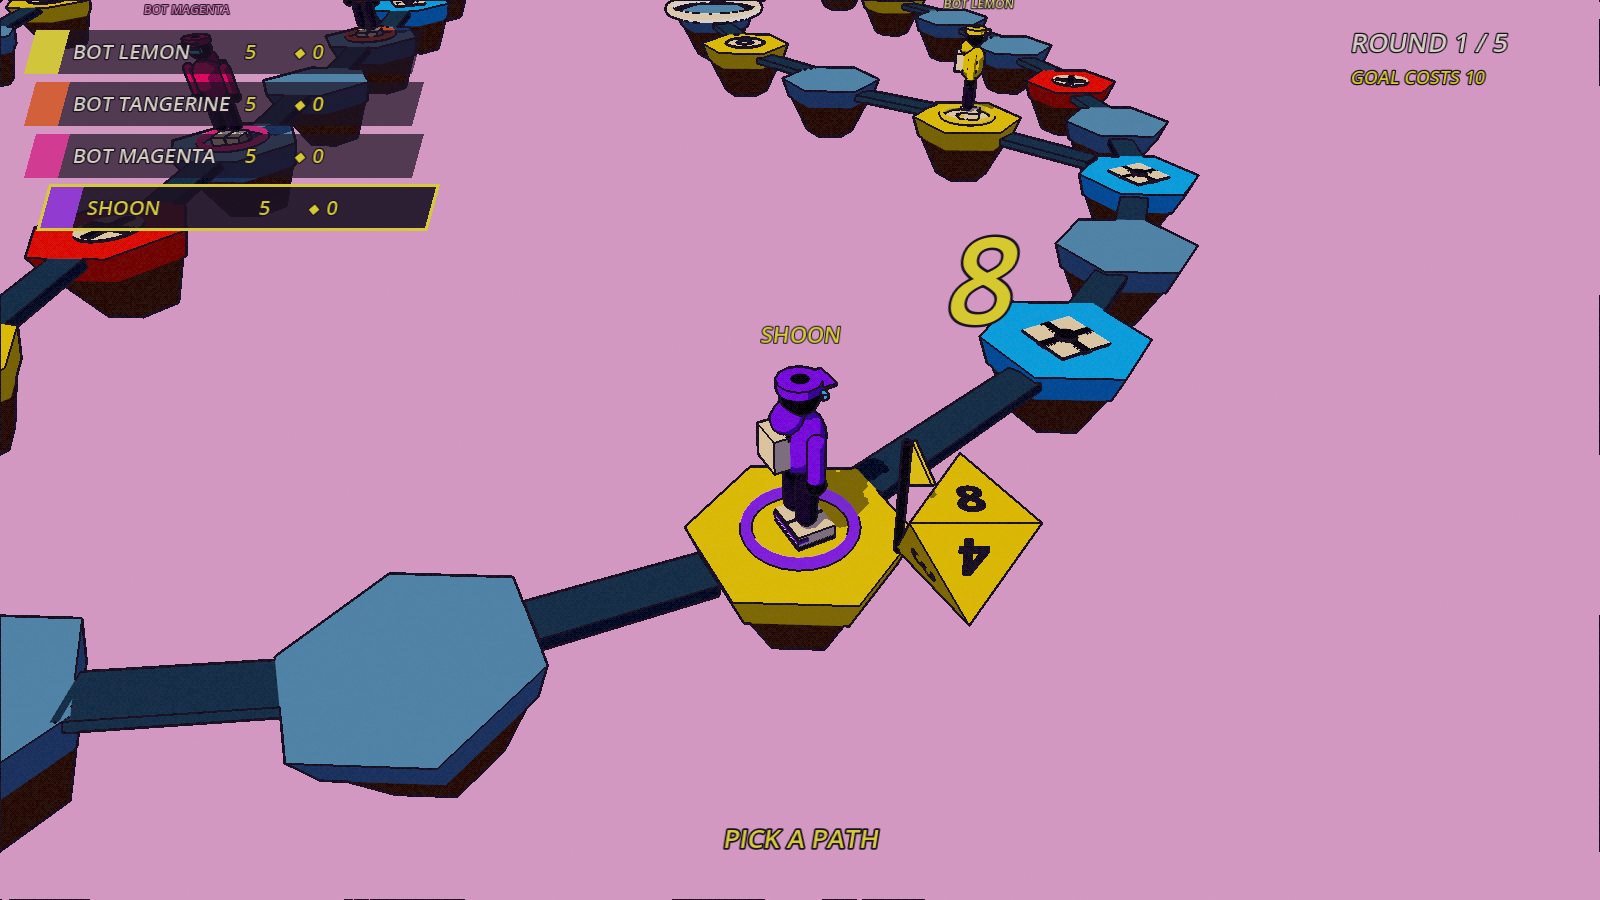
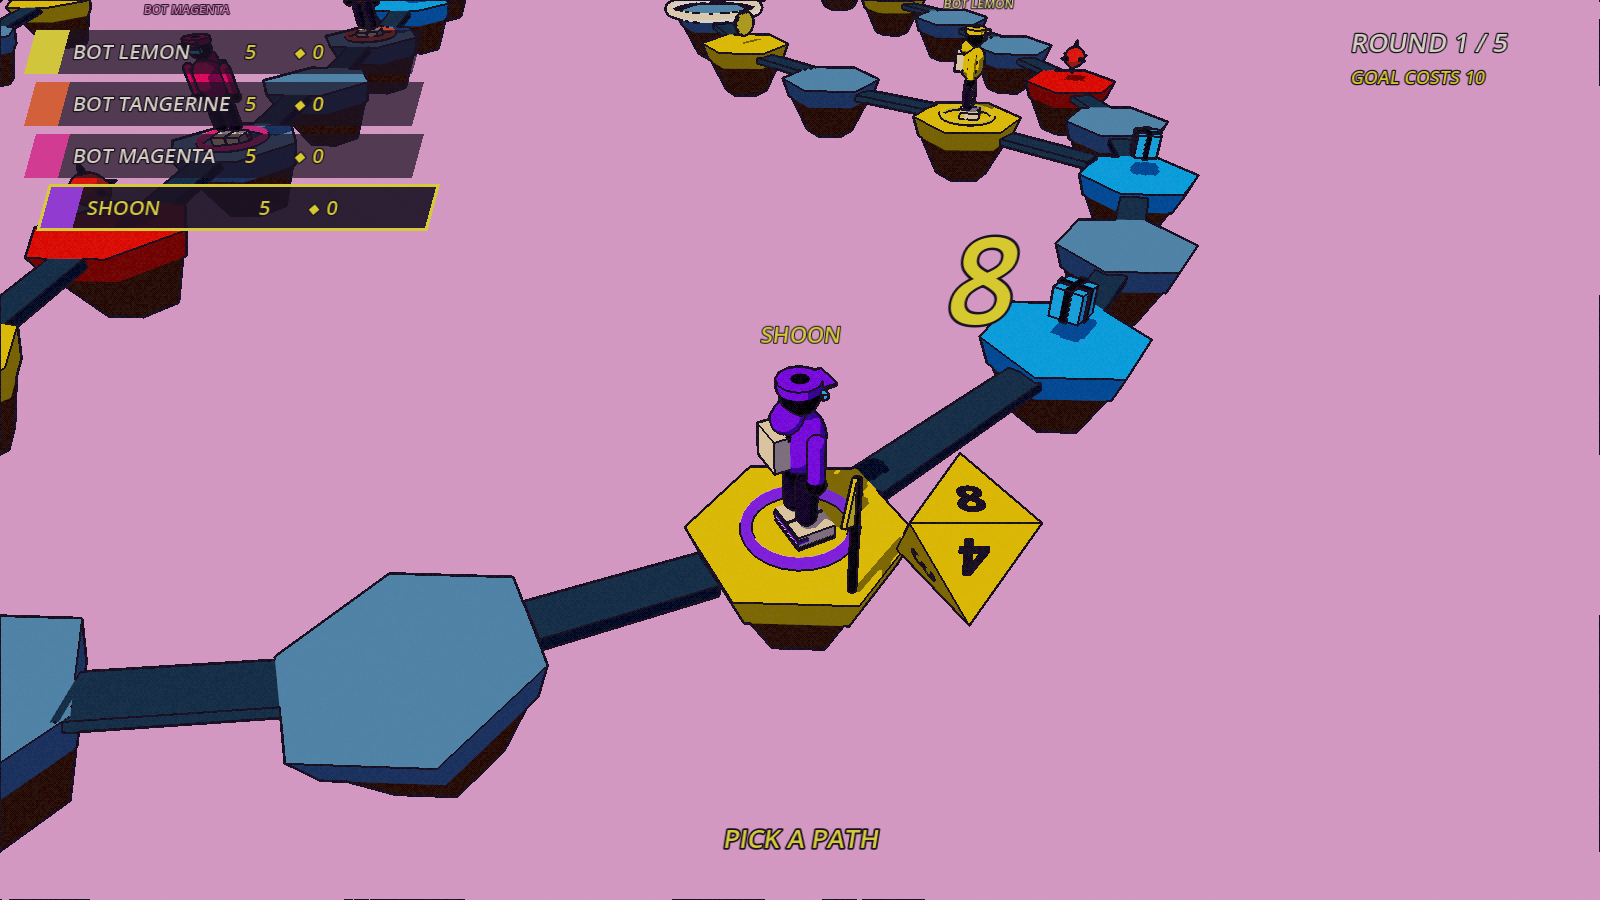
Floating board markers restored; bold dice numbers kept
Sean: the flat stamps look ugly on the spot. board_view.gd is back to the
spinning, bobbing markers from the previous commit.

diff --git a/DECISIONS.md b/DECISIONS.md
@@ -127,3 +127,4 @@ Append-only. One line per assumption: date, the decision, the reason. Newest at 
 - 2026-09-18 — Every `Label3D` under the outline post quad was invisible (pawn names, the "?" sign, floating coin labels, arena name tags, and then the die numbers): the quad samples `hint_screen_texture`, which Godot captures after the opaque pass, and overwrites transparent geometry drawn before it in the transparent pass. Labels now render alpha-cut (`ALPHA_CUT_DISCARD`, opaque pass) so they sit in the screen texture and get the ink pass like everything else. The results podium's labels live in a SubViewport without the quad and were fine, which is why the bug hid.
 - 2026-09-18 — Board name tags are drawn by the HUD: each pawn's head is projected with the camera, tags are sized by distance and pushed apart when they would overprint (four pawns on the start tile did), the active player's tag in the accent colour. The Label3D tags could not be de-overlapped in world space because depth shifts a nearer pawn's tag up the screen more than any fixed lift. Arena name tags stay 3D (players rarely stack there).
 - 2026-09-19 — Board space icons are flat stamps on the tile face instead of floating, spinning markers (Sean): a coin disc with rings, a wrapped gift (square with ink straps and a knot), a danger X on a red disc, a "?" lying flat on event tiles, a shield emblem on the safe spot; the start keeps its standing flag. Stamps are children of the tile so the fork hover lift carries them. Dice numbers are bolder: font 96 with a 16 px same-colour outline.
+- 2026-09-19 — Sean: "lets have them floating again, it looks ugly on the spot". The flat stamps lasted one build; the floating, spinning markers (coin, crate, spiked ball, "?" sign, shield dome, start flag) are back exactly as before. The bold die numbers stay.

diff --git a/STATUS.md b/STATUS.md
@@ -268,10 +268,9 @@ and get inked with everything else. Pawn name tags moved to the HUD (projected f
 head, sized by distance, pushed apart when four pawns share the start tile, the active
 player's in the accent colour). `board_dice_landed.png`, `board_turn.png`.
 
-Board icons are flat stamps printed on the tile faces (cream base, ink detail: coin, gift,
-danger X, "?", shield emblem), no longer floating markers; they are children of the tiles so
-the fork hover lift carries them. Die numbers are bold (96 px with a 16 px same-colour
-outline). `board_turn.png`, `board_overview.png`, `board_dice_landed.png`.
+Board icons went flat onto the tile faces for one build and came straight back as the
+floating, spinning markers on Sean's word ("it looks ugly on the spot"). Die numbers are bold
+(96 px with a 16 px same-colour outline). `board_turn.png`, `board_dice_landed.png`.
 
 ### Bugs found and fixed today (all measured before and after)
 
